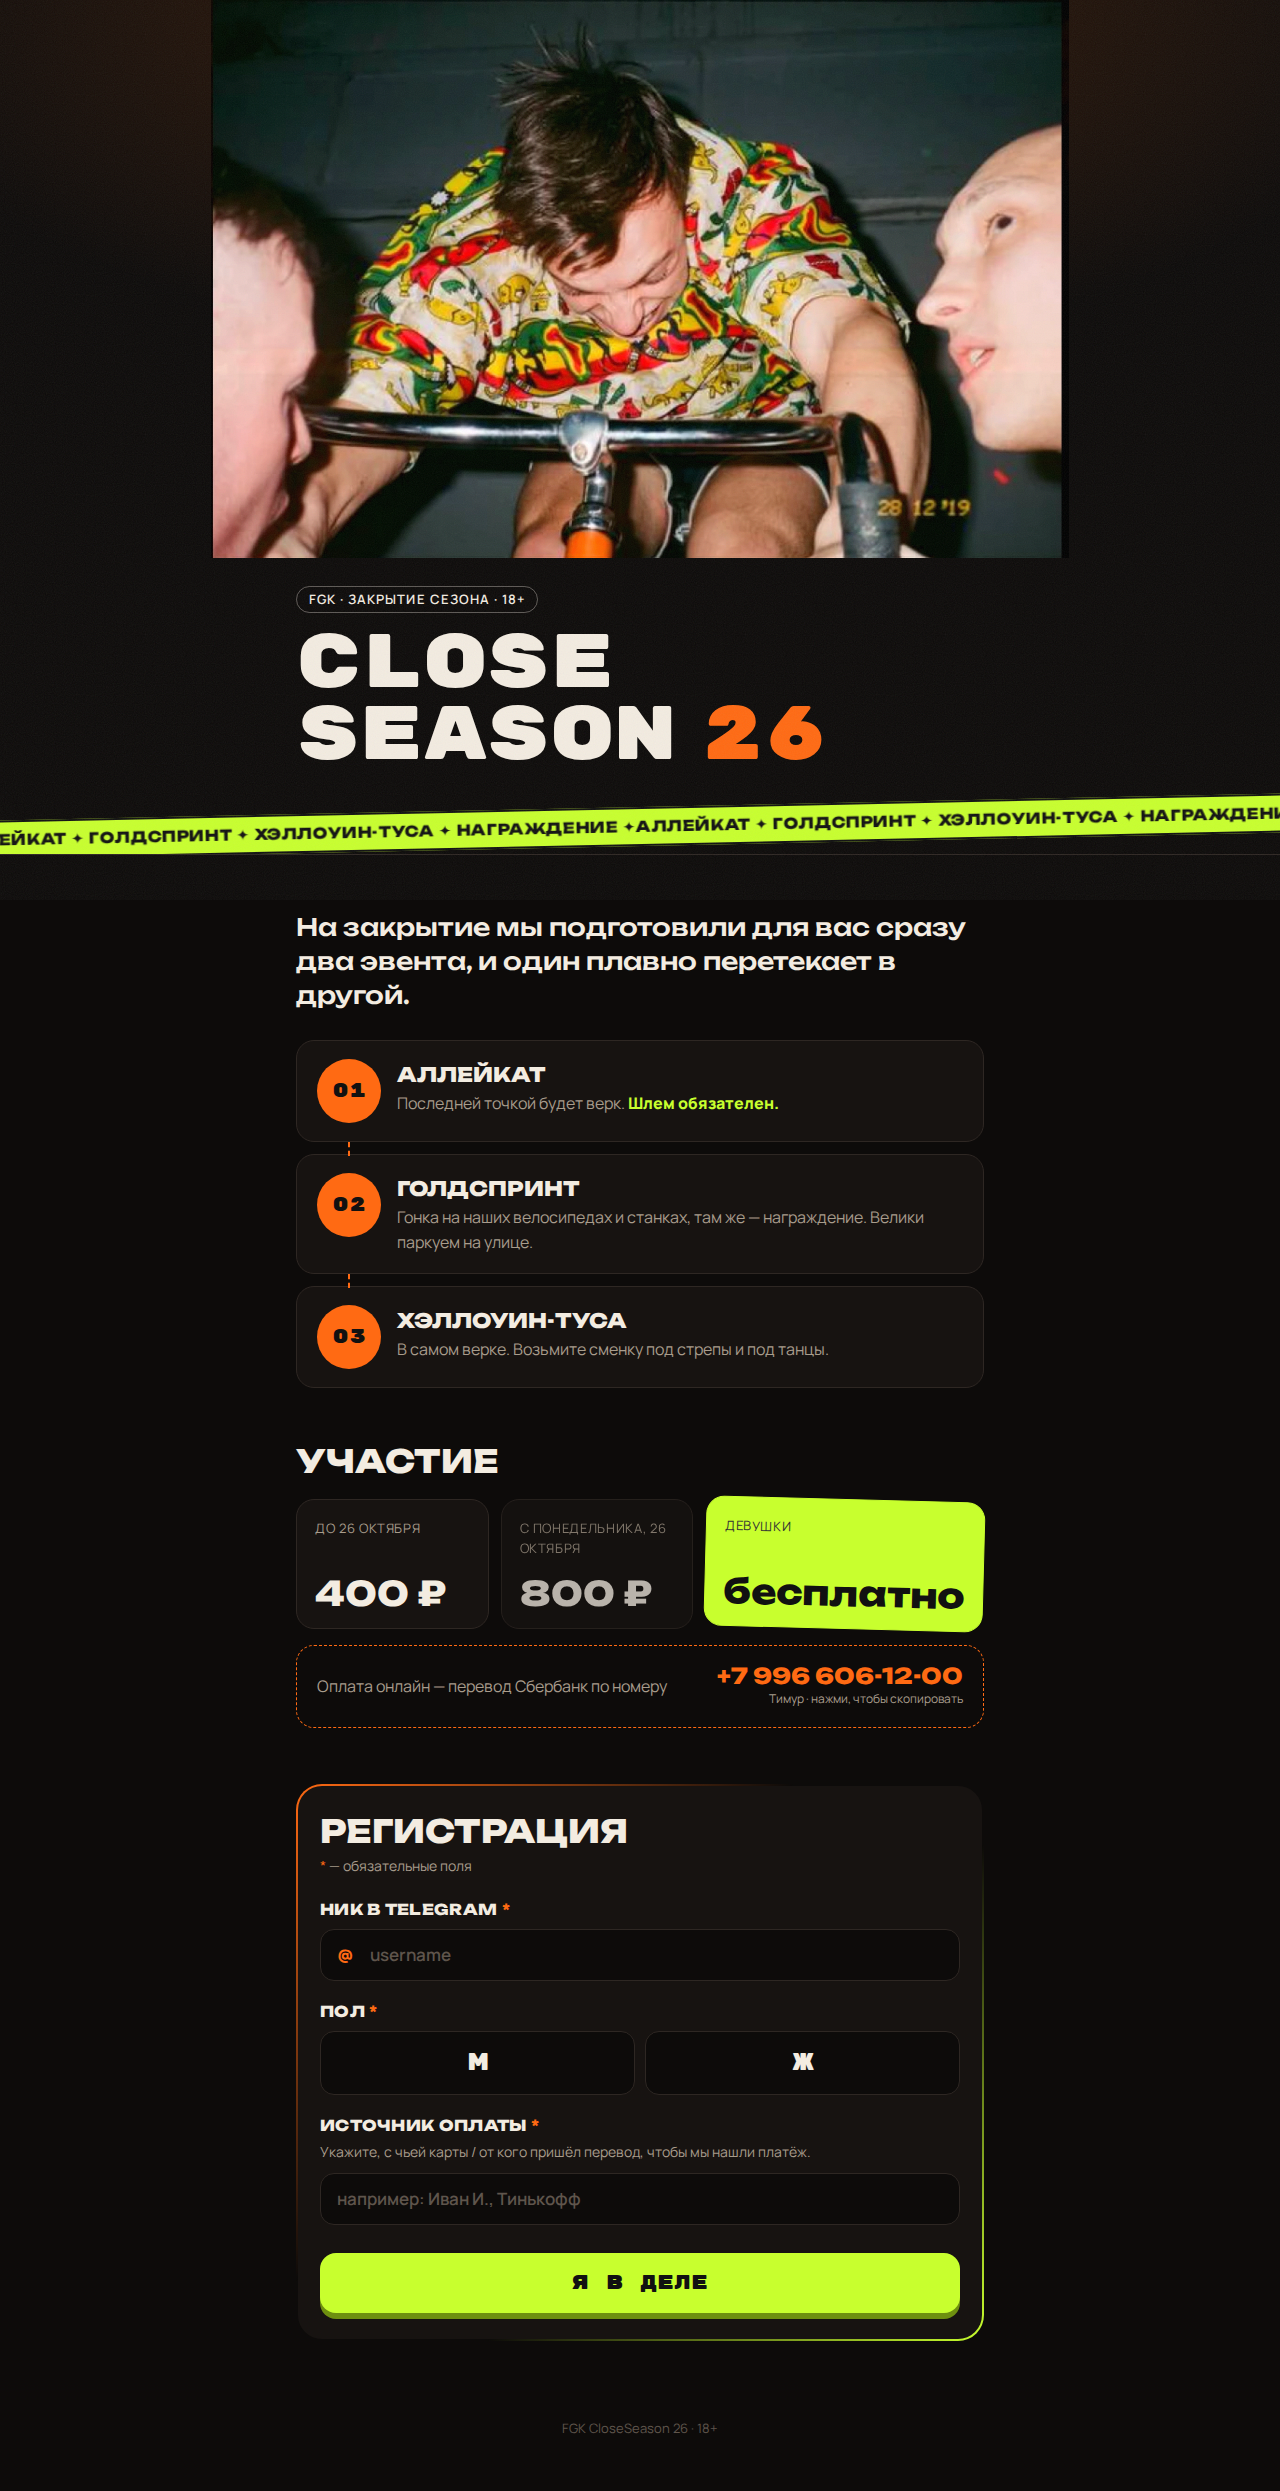
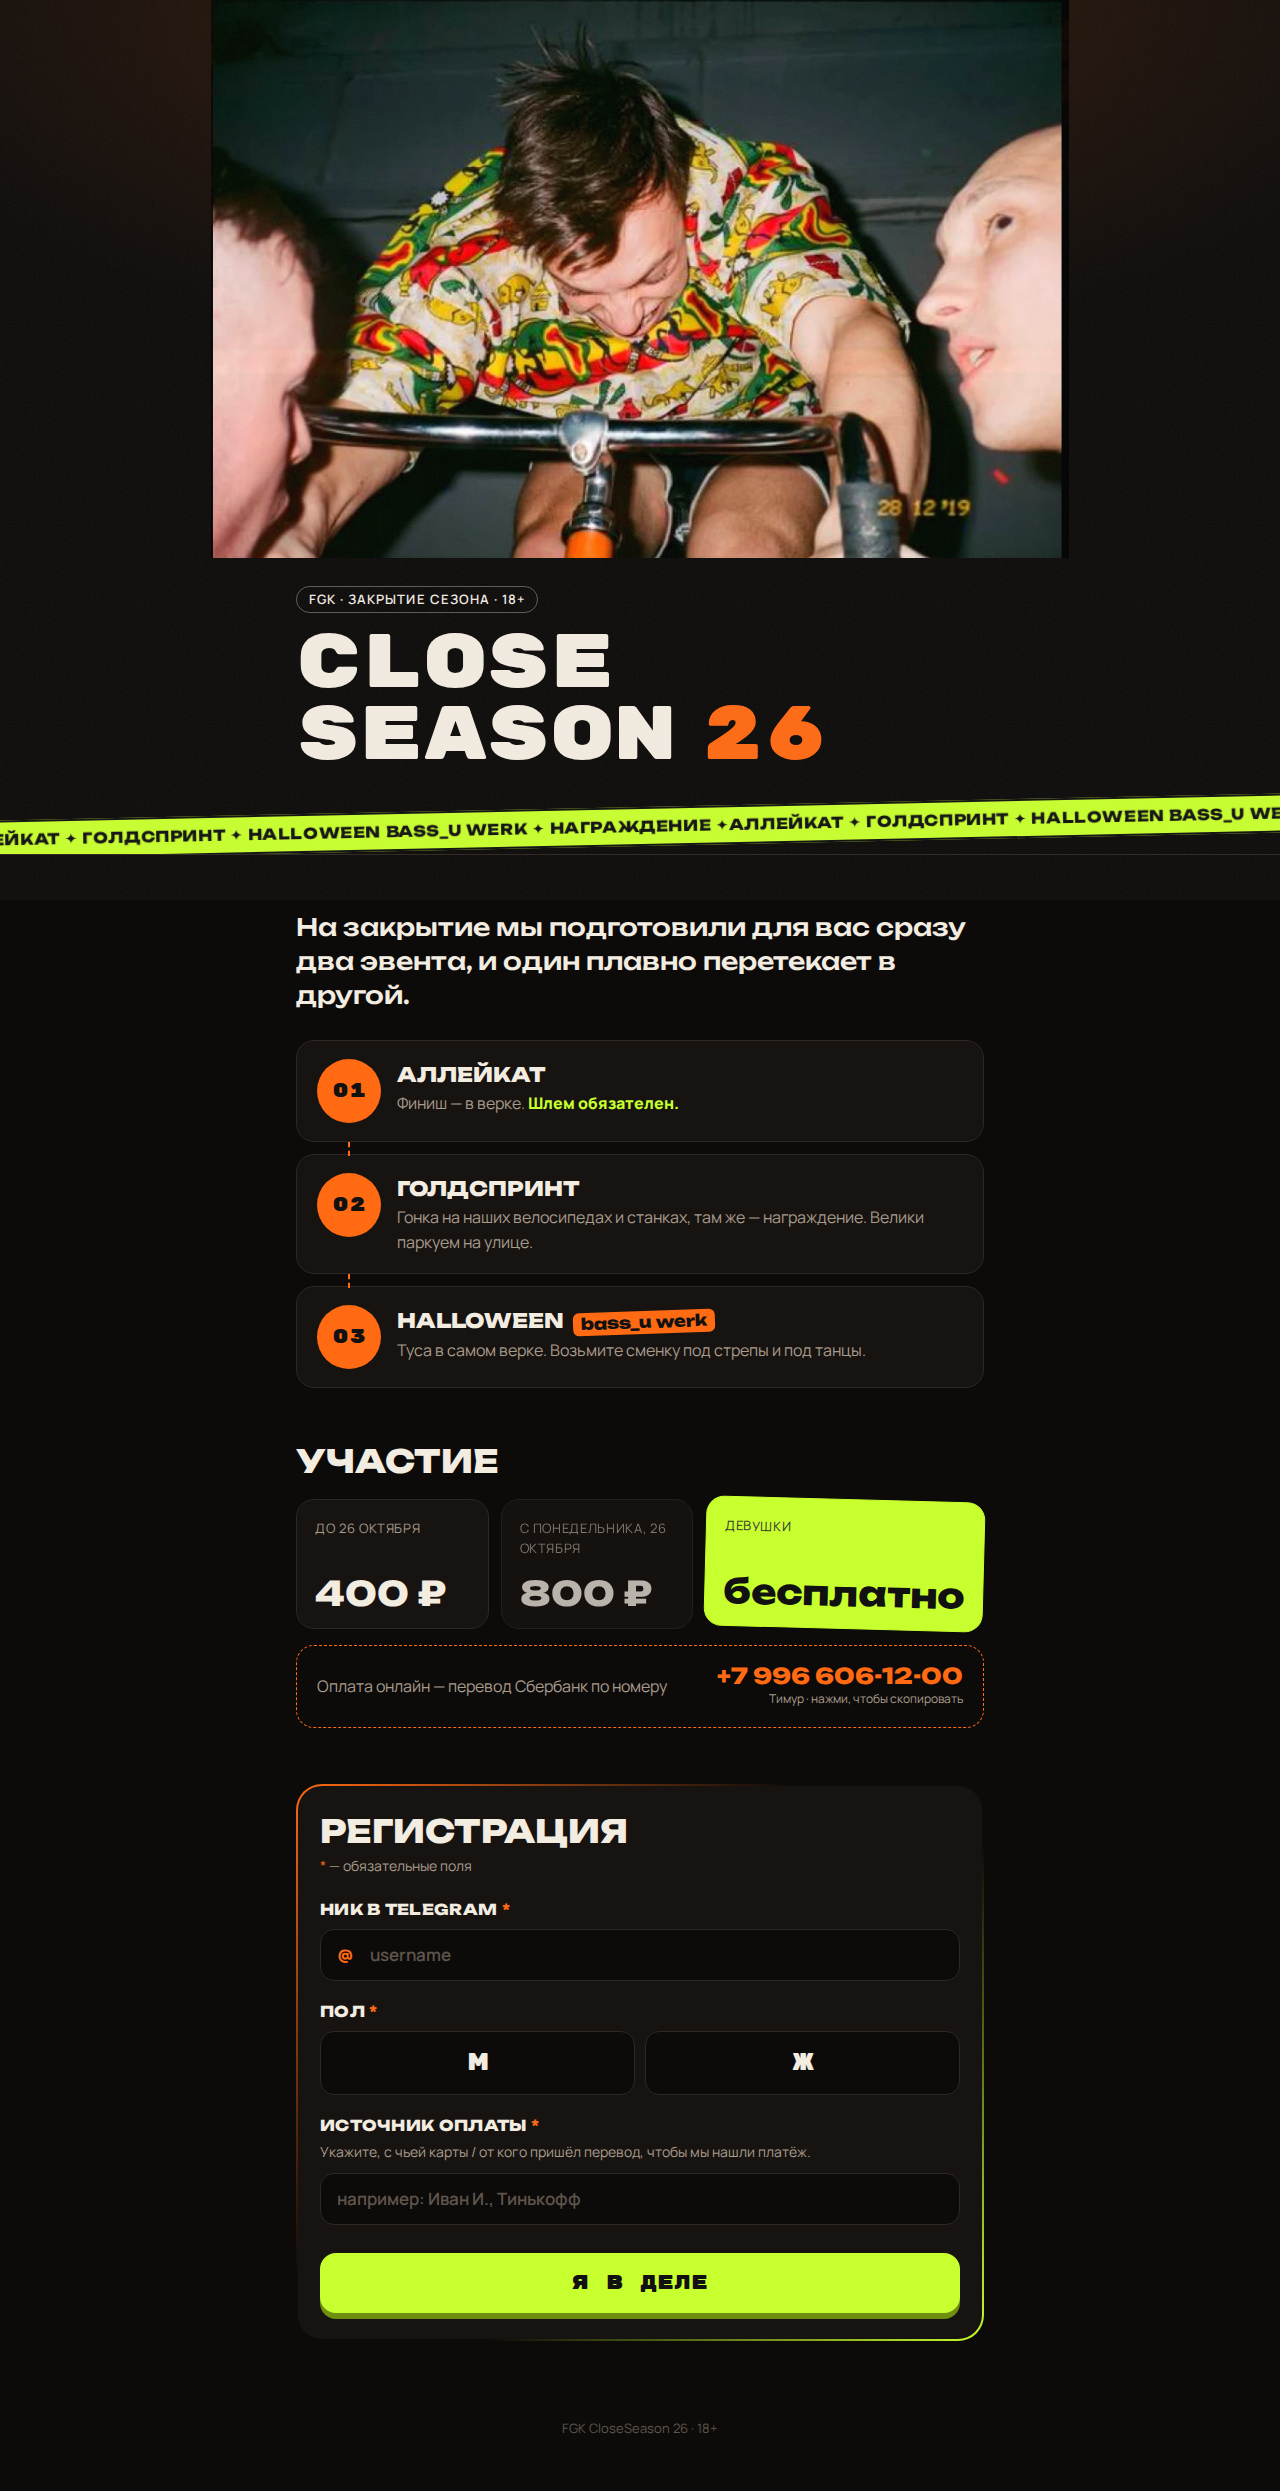
Название тусовки: Halloween bass_u werk
Claude-Session: https://claude.ai/code/session_0122weFEyBkPzVmy7e3pz2TB

diff --git a/index.html b/index.html
@@ -4,7 +4,7 @@
   <meta charset="utf-8">
   <meta name="viewport" content="width=device-width, initial-scale=1">
   <title>FGK CloseSeason 26</title>
-  <meta name="description" content="Регистрация на закрытие сезона FGK: аллейкат, голдспринт и хэллоуин-туса.">
+  <meta name="description" content="Регистрация на закрытие сезона FGK: аллейкат, голдспринт и Halloween bass_u werk.">
   <meta name="theme-color" content="#0d0b0a">
   <link rel="preconnect" href="https://fonts.googleapis.com">
   <link rel="preconnect" href="https://fonts.gstatic.com" crossorigin>
@@ -24,8 +24,8 @@
     </div>
     <div class="ticker" aria-hidden="true">
       <div class="ticker__track">
-        <span>аллейкат ✦ голдспринт ✦ хэллоуин-туса ✦ награждение ✦ </span>
-        <span>аллейкат ✦ голдспринт ✦ хэллоуин-туса ✦ награждение ✦ </span>
+        <span>аллейкат ✦ голдспринт ✦ halloween bass_u werk ✦ награждение ✦ </span>
+        <span>аллейкат ✦ голдспринт ✦ halloween bass_u werk ✦ награждение ✦ </span>
       </div>
     </div>
   </header>
@@ -39,7 +39,7 @@
           <span class="route__num">01</span>
           <div>
             <h2>Аллейкат</h2>
-            <p>Последней точкой будет верк. <strong>Шлем обязателен.</strong></p>
+            <p>Финиш — в верке. <strong>Шлем обязателен.</strong></p>
           </div>
         </li>
         <li class="route__step">
@@ -52,8 +52,8 @@
         <li class="route__step">
           <span class="route__num">03</span>
           <div>
-            <h2>Хэллоуин-туса</h2>
-            <p>В самом верке. Возьмите сменку под стрепы и под танцы.</p>
+            <h2>Halloween <span class="tag">bass_u werk</span></h2>
+            <p>Туса в самом верке. Возьмите сменку под стрепы и под танцы.</p>
           </div>
         </li>
       </ol>

diff --git a/style.css b/style.css
@@ -142,6 +142,15 @@ h1, h2, h3 { margin: 0; }
   text-transform: uppercase;
   margin: 4px 0 4px;
 }
+.route__step .tag {
+  display: inline-block;
+  margin-left: 4px; padding: 3px 8px 4px;
+  border-radius: 6px;
+  background: var(--orange); color: #111;
+  font: 800 .8em/1 var(--head);
+  text-transform: none; letter-spacing: 0;
+  transform: rotate(-2deg);
+}
 .route__step p { margin: 0; color: var(--muted); }
 .route__step strong { color: var(--acid); font-weight: 800; }
 
